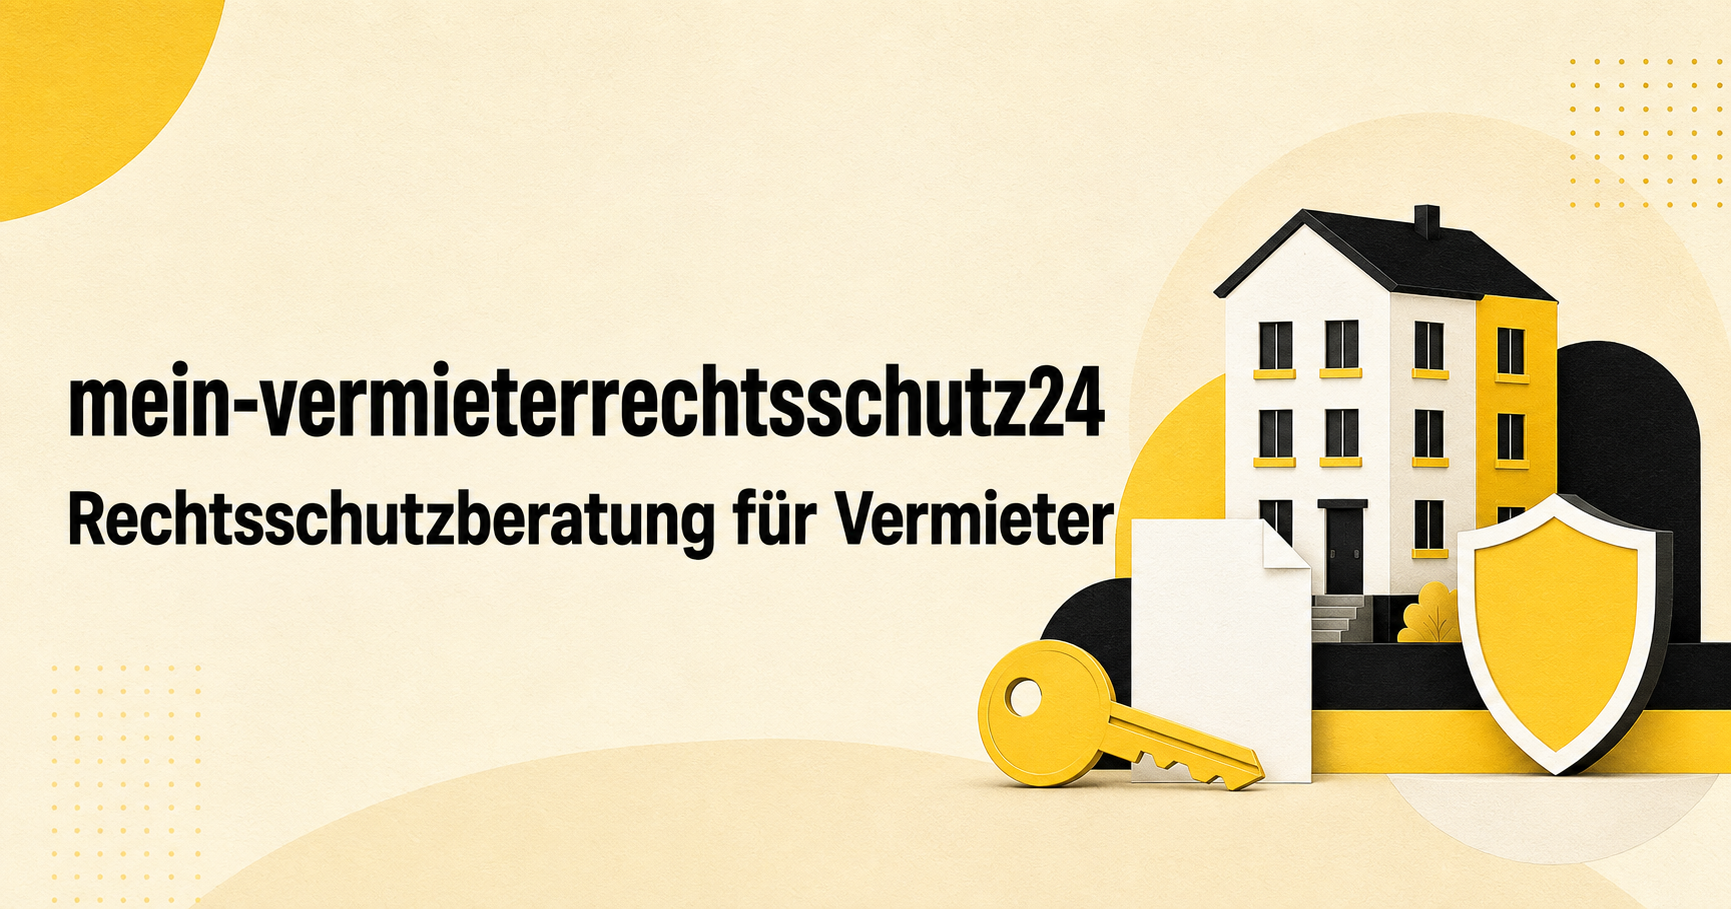
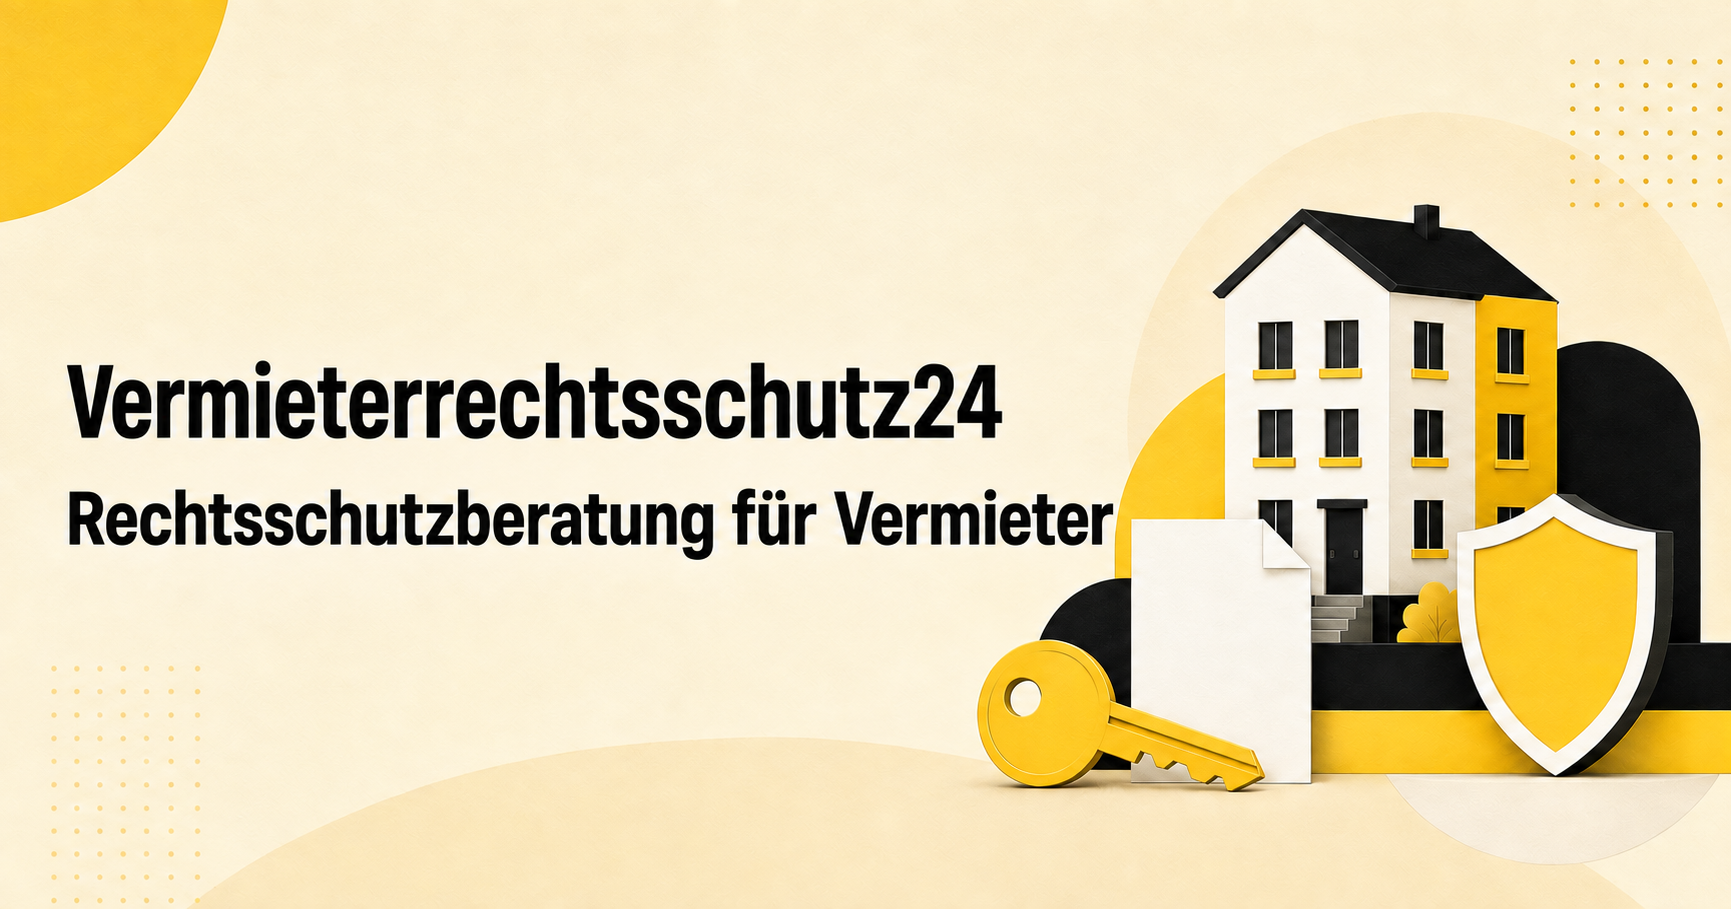
Rename site to Vermieterrechtsschutz24

diff --git a/index.html b/index.html
@@ -3,26 +3,26 @@
   <head>
     <meta charset="UTF-8" />
     <meta name="viewport" content="width=device-width, initial-scale=1.0" />
-    <title>mein-vermieterrechtsschutz24 | Rechtsschutzberatung für Vermieter</title>
+    <title>Vermieterrechtsschutz24 | Rechtsschutzberatung für Vermieter</title>
     <meta name="description" content="Persönliche Beratung zum Immobilien-Rechtsschutz für private Vermieter. Bedarf erfassen, Bedingungen verstehen und ein individuelles Angebot prüfen." />
-    <link rel="canonical" href="https://mein-vermieterrechtsschutz24.de/" />
+    <link rel="canonical" href="https://vermieterrechtsschutz24.com/" />
     <link rel="icon" href="/favicon.svg" />
     <meta name="theme-color" content="#f8d32c" />
-    <meta property="og:title" content="mein-vermieterrechtsschutz24 | Rechtsschutzberatung für Vermieter" />
+    <meta property="og:title" content="Vermieterrechtsschutz24 | Rechtsschutzberatung für Vermieter" />
     <meta property="og:description" content="Rechtsschutz für private Vermieter: persönlich beraten und passend zur Immobilie zusammengestellt." />
     <meta property="og:type" content="website" />
-    <meta property="og:url" content="https://mein-vermieterrechtsschutz24.de/" />
-    <meta property="og:site_name" content="mein-vermieterrechtsschutz24" />
+    <meta property="og:url" content="https://vermieterrechtsschutz24.com/" />
+    <meta property="og:site_name" content="Vermieterrechtsschutz24" />
     <meta property="og:locale" content="de_DE" />
-    <meta property="og:image" content="https://mein-vermieterrechtsschutz24.de/og.png" />
+    <meta property="og:image" content="https://vermieterrechtsschutz24.com/og.png" />
     <meta property="og:image:width" content="1200" />
     <meta property="og:image:height" content="630" />
-    <meta property="og:image:alt" content="mein-vermieterrechtsschutz24 – Rechtsschutzberatung für Vermieter" />
+    <meta property="og:image:alt" content="Vermieterrechtsschutz24 – Rechtsschutzberatung für Vermieter" />
     <meta name="twitter:card" content="summary_large_image" />
-    <meta name="twitter:title" content="mein-vermieterrechtsschutz24 | Rechtsschutzberatung für Vermieter" />
+    <meta name="twitter:title" content="Vermieterrechtsschutz24 | Rechtsschutzberatung für Vermieter" />
     <meta name="twitter:description" content="Rechtsschutz für private Vermieter: persönlich beraten und passend zur Immobilie zusammengestellt." />
-    <meta name="twitter:image" content="https://mein-vermieterrechtsschutz24.de/og.png" />
-    <meta name="twitter:image:alt" content="mein-vermieterrechtsschutz24 – Rechtsschutzberatung für Vermieter" />
+    <meta name="twitter:image" content="https://vermieterrechtsschutz24.com/og.png" />
+    <meta name="twitter:image:alt" content="Vermieterrechtsschutz24 – Rechtsschutzberatung für Vermieter" />
   </head>
   <body>
     <div id="root"></div>

diff --git a/erstinformation/index.html b/erstinformation/index.html
@@ -3,9 +3,9 @@
   <head>
     <meta charset="UTF-8" />
     <meta name="viewport" content="width=device-width, initial-scale=1.0" />
-    <title>Erstinformation | mein-vermieterrechtsschutz24</title>
-    <meta name="description" content="Erstinformation nach § 15 VersVermV zu mein-vermieterrechtsschutz24." />
-    <link rel="canonical" href="https://mein-vermieterrechtsschutz24.de/erstinformation" />
+    <title>Erstinformation | Vermieterrechtsschutz24</title>
+    <meta name="description" content="Erstinformation nach § 15 VersVermV zu Vermieterrechtsschutz24." />
+    <link rel="canonical" href="https://vermieterrechtsschutz24.com/erstinformation" />
     <link rel="icon" href="/favicon.svg" />
     <meta name="theme-color" content="#f8d32c" />
   </head>

diff --git a/datenschutz/index.html b/datenschutz/index.html
@@ -3,9 +3,9 @@
   <head>
     <meta charset="UTF-8" />
     <meta name="viewport" content="width=device-width, initial-scale=1.0" />
-    <title>Datenschutz | mein-vermieterrechtsschutz24</title>
-    <meta name="description" content="Datenschutzhinweise zu mein-vermieterrechtsschutz24 und zur Rückrufanfrage." />
-    <link rel="canonical" href="https://mein-vermieterrechtsschutz24.de/datenschutz" />
+    <title>Datenschutz | Vermieterrechtsschutz24</title>
+    <meta name="description" content="Datenschutzhinweise zu Vermieterrechtsschutz24 und zur Rückrufanfrage." />
+    <link rel="canonical" href="https://vermieterrechtsschutz24.com/datenschutz" />
     <link rel="icon" href="/favicon.svg" />
     <meta name="theme-color" content="#f8d32c" />
   </head>

diff --git a/impressum/index.html b/impressum/index.html
@@ -3,9 +3,9 @@
   <head>
     <meta charset="UTF-8" />
     <meta name="viewport" content="width=device-width, initial-scale=1.0" />
-    <title>Impressum | mein-vermieterrechtsschutz24</title>
-    <meta name="description" content="Anbieter- und berufsrechtliche Angaben zu mein-vermieterrechtsschutz24." />
-    <link rel="canonical" href="https://mein-vermieterrechtsschutz24.de/impressum" />
+    <title>Impressum | Vermieterrechtsschutz24</title>
+    <meta name="description" content="Anbieter- und berufsrechtliche Angaben zu Vermieterrechtsschutz24." />
+    <link rel="canonical" href="https://vermieterrechtsschutz24.com/impressum" />
     <link rel="icon" href="/favicon.svg" />
     <meta name="theme-color" content="#f8d32c" />
   </head>

diff --git a/vite.config.ts b/vite.config.ts
@@ -2,7 +2,7 @@ import react from "@vitejs/plugin-react";
 import { resolve } from "node:path";
 import { defineConfig } from "vite";
 
-const fallbackSiteUrl = "https://mein-vermieterrechtsschutz24.de";
+const fallbackSiteUrl = "https://vermieterrechtsschutz24.com";
 const canonicalSiteUrl = (process.env.SITE_URL || fallbackSiteUrl).replace(/\/$/, "");
 const siteRoutes = ["", "impressum", "erstinformation", "datenschutz"];
 

diff --git a/app/legal-data.ts b/app/legal-data.ts
@@ -1,5 +1,5 @@
 export const operator = {
-  brandName: "mein-vermieterrechtsschutz24",
+  brandName: "Vermieterrechtsschutz24",
   name: "Agapios Papadakis",
   qualification: "Hauptgeschäftsstellenleiter ARAG Versicherungen",
   businessName: "ARAG Hauptgeschäftsstelle Augsburg",

diff --git a/public/api/contact.php b/public/api/contact.php
@@ -89,7 +89,7 @@ $safePhone = preg_replace('/[\\r\\n]+/', ' ', $phone) ?? $phone;
 $safeSourceUrl = filter_var($sourceUrl, FILTER_VALIDATE_URL) !== false ? $sourceUrl : 'Nicht verfügbar';
 
 $recipient = 'info@rechtsschutzpartner24.de';
-$subject = 'Neue Anfrage über mein-vermieterrechtsschutz24';
+$subject = 'Neue Anfrage über Vermieterrechtsschutz24';
 $encodedSubject = '=?UTF-8?B?' . base64_encode($subject) . '?=';
 $body = implode("\r\n", [
     'Neue Anfrage über die Website',
@@ -112,12 +112,12 @@ $headers = implode("\r\n", [
     'MIME-Version: 1.0',
     'Content-Type: text/plain; charset=UTF-8',
     'Content-Transfer-Encoding: 8bit',
-    'From: mein-vermieterrechtsschutz24 <info@rechtsschutzpartner24.de>',
+    'From: Vermieterrechtsschutz24 <info@rechtsschutzpartner24.de>',
     'Reply-To: ' . $email,
 ]);
 
 if (!mail($recipient, $encodedSubject, $body, $headers)) {
-    error_log('mein-vermieterrechtsschutz24: Kontaktformular konnte nicht versendet werden.');
+    error_log('Vermieterrechtsschutz24: Kontaktformular konnte nicht versendet werden.');
     respond(500, ['success' => false, 'message' => 'Die Anfrage konnte gerade nicht gesendet werden.']);
 }
 

diff --git a/README.md b/README.md
@@ -1,4 +1,4 @@
-# mein-vermieterrechtsschutz24
+# Vermieterrechtsschutz24
 
 React/Vite-Website mit eigenem PHP-Formularendpunkt für die persönliche Beratung zum Immobilien-Rechtsschutz für Vermieter.
 
